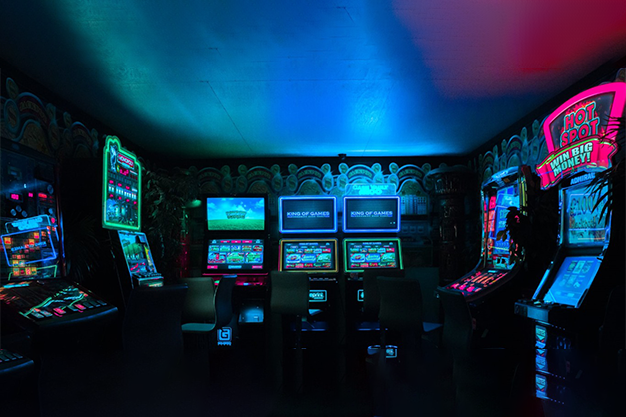
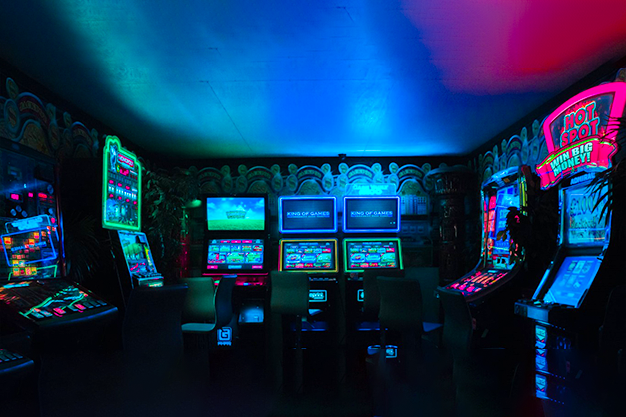
added rotating arcadeImg's (currently only 2)

diff --git a/react-trivia/src/App.jsx b/react-trivia/src/App.jsx
@@ -5,6 +5,8 @@ import Questions from 'components/Questions';
 import CatInputs from 'components/CatInputs';
 import QuesInputs from './components/QuesInputs';
 import Footer from 'components/Footer';
+import arcadeImg from 'assets/arcade.png';
+import arcadeImg2 from 'assets/arcade2.png';
 import './App.css';
 
 function App() {
@@ -19,10 +21,11 @@ function App() {
   const [trivQuesData, setTrivQuesData] = useState([]); // trivia question data
   const [curQuesIdx, setCurQuesIdx] = useState(initQuesIdx);
   const [showAns, setShowAns] = useState(false);
+  const [currentImageIndex, setCurrentImageIndex] = useState(0);
   const lastQuesIdx = trivQuesData.length - 1;
   const catUrl = 'https://opentdb.com/api_category.php?';
   const baseUrl = 'https://opentdb.com/api.php?';
-  // const baseUrl = 'https://opentdb.com/api.php?amount=10&category=20&';
+  const imageList = [arcadeImg, arcadeImg2];
 
   function createUrl() {
     let url = `${baseUrl}amount=${quesNum}`;
@@ -41,6 +44,14 @@ function App() {
 
     return url;
   }
+
+  useEffect(() => {
+    const timer = setInterval(() => {
+      setCurrentImageIndex((prevIndex) => (prevIndex + 1) % imageList.length);
+    }, 5000);
+
+    return () => clearInterval(timer);
+  }, []);
 
   useEffect(() => {
     axios
@@ -91,9 +102,16 @@ function App() {
           curQuesIdx={curQuesIdx}
           showAns={showAns}
           setShowAns={setShowAns}
+          currentImageIndex={currentImageIndex}
+          imageList={imageList}
         />
       ) : (
-        <Categories trivCatData={trivCatData} handleCategory={handleCategory} />
+        <Categories
+          trivCatData={trivCatData}
+          handleCategory={handleCategory}
+          currentImageIndex={currentImageIndex}
+          imageList={imageList}
+        />
       )}
       {hasSelCat ? (
         <QuesInputs

diff --git a/react-trivia/src/components/Questions.jsx b/react-trivia/src/components/Questions.jsx
@@ -1,8 +1,15 @@
 import React, { useState, useEffect } from 'react';
-import arcadeImg from 'assets/arcade.png';
 import he from 'he';
 
-function Questions({ selCat, trivQuesData, curQuesIdx, showAns, setShowAns }) {
+function Questions({
+  selCat,
+  trivQuesData,
+  curQuesIdx,
+  showAns,
+  setShowAns,
+  currentImageIndex,
+  imageList,
+}) {
   const ques = trivQuesData[curQuesIdx];
   const [allChoices, setAllChoices] = useState([]);
 
@@ -71,7 +78,7 @@ function Questions({ selCat, trivQuesData, curQuesIdx, showAns, setShowAns }) {
           <div className='arcadeBox'>
             <div className='shadow'>
               <img
-                src={arcadeImg}
+                src={`${imageList[currentImageIndex]}`}
                 alt='Arcade Img'
                 className='catBoxBanner'
               ></img>
@@ -119,7 +126,7 @@ function Questions({ selCat, trivQuesData, curQuesIdx, showAns, setShowAns }) {
         <div className='arcadeBox'>
           <div className='shadow'>
             <img
-              src={arcadeImg}
+              src={`${imageList[currentImageIndex]}`}
               alt='Arcade Img'
               className='catBoxBanner'
             ></img>

diff --git a/react-trivia/src/components/Categories.jsx b/react-trivia/src/components/Categories.jsx
@@ -1,6 +1,9 @@
-import arcadeImg from 'assets/arcade.png';
-
-function Categories({ trivCatData, handleCategory }) {
+function Categories({
+  trivCatData,
+  handleCategory,
+  currentImageIndex,
+  imageList,
+}) {
   return (
     <div>
       <p className='categoriesText'>Categories</p>
@@ -8,7 +11,7 @@ function Categories({ trivCatData, handleCategory }) {
         <div className='arcadeBox'>
           <div className='shadow'>
             <img
-              src={arcadeImg}
+              src={`${imageList[currentImageIndex]}`}
               alt='Arcade Img'
               className='catBoxBanner'
             ></img>
